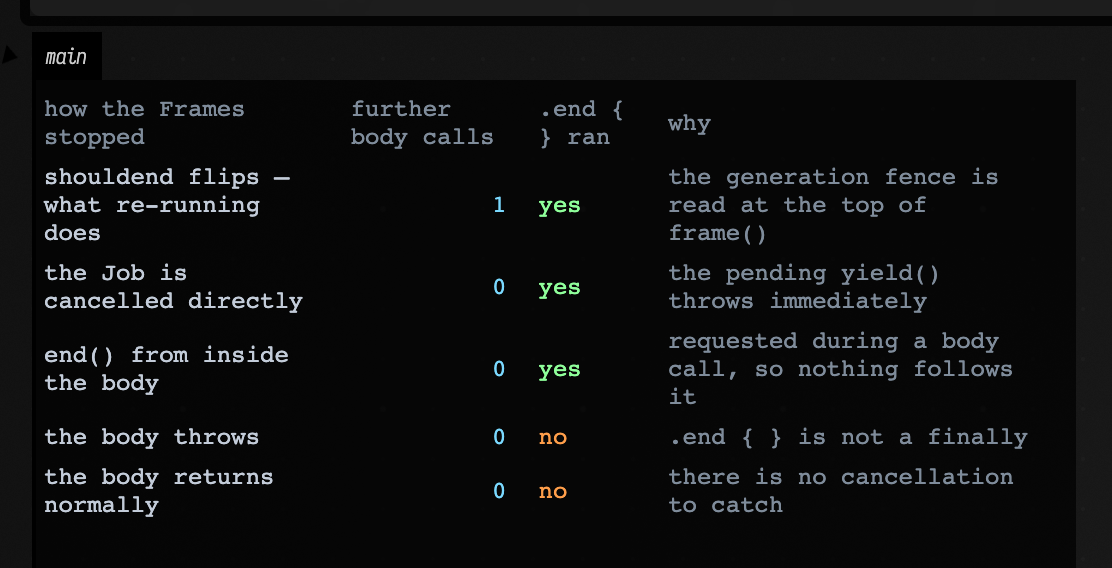
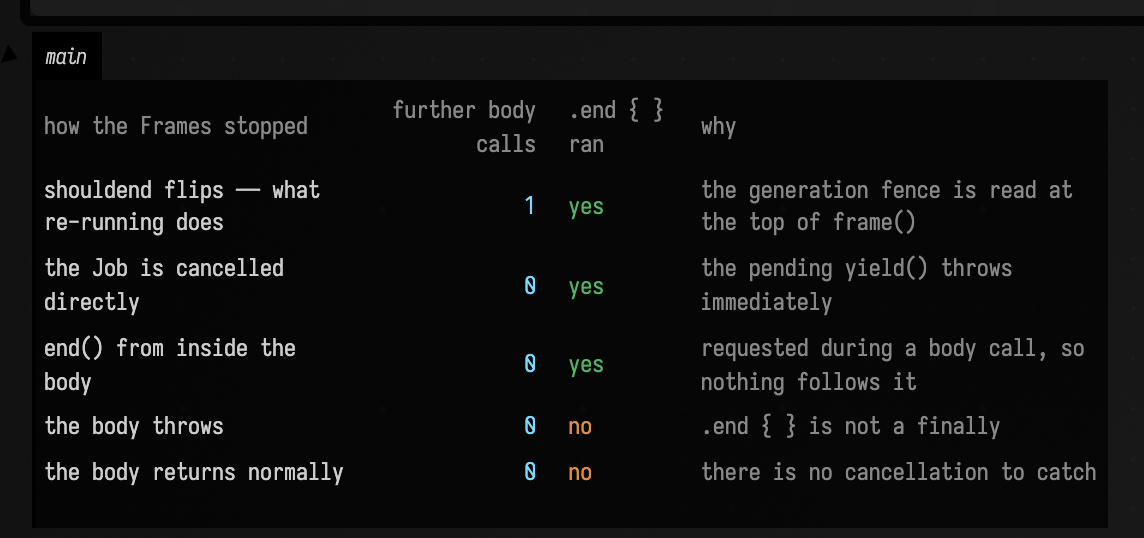
feat(visualization): semantic cell roles, and the twin table this missed
The builders figure lost its hand-rolled `<td>` markup last commit; the stopping
figure 100 lines below it kept its own `cell()` helper and four hex literals. Same
page, same shape, missed the first time round.

Migrating it needed one thing `Table` could not do: colour a column *per cell* — the
`.end { } ran` column is one thing when it ran and another when it did not. Rather
than add a second way to spell a colour, `CellRole` reuses `markdown()`'s six
`{role:text}` names and their `field-md-*` classes, so a table cell and a markdown
span that both mean "good" resolve to the same `--field-*` token by construction and
neither says `#8fff9a`. `role(column, …)` sets one for a whole column, `roleBy` picks
per value, and a failed `expect` outranks both.

WARN, not BAD, for "did not run": two of those five rows are correct completion
behaviour, and danger-red read as though the figure were reporting a bug.

The fence also ends with the two claims the paragraphs below it make — one probe
costs a further body call, `.end { }` runs for three of five — as `check`s rather
than as prose a reader has to verify against the picture.

`extraBodyCalls` becomes an `Int` instead of a pre-formatted `String`, which is what
lets Table right-align it and drops the explicit align argument.

Two notes for whoever reads this next:

- `TABLE_MUTED`/`TABLE_TEXT` are still hex while `CellRole` is tokens. Moving them is
[…]

diff --git a/src/jvmMain/kotlin/afield/visualization/tables.kt b/src/jvmMain/kotlin/afield/visualization/tables.kt
@@ -40,14 +40,32 @@ enum class Align { LEFT, RIGHT, CENTER }
 /** One cell that failed a [Table.expect] check: its row index, column name, value, and the reason given. */
 data class Deviation(val row: Int, val column: String, val value: Any?, val because: String?)
 
-/** Muted grey for headers, notes and elisions — the same `#888` the rest of value display uses. */
+/**
+ * Muted grey for headers, notes and elisions — the same `#888` the rest of value display uses.
+ *
+ * Still a hex literal, unlike [CellRole]. Moving these two defaults onto the `--field-*` tokens is
+ * the right end state and a small change, but it shifts the colour of every table already captured
+ * in the docs, so it wants its own pass rather than riding along with a figure.
+ */
 const val TABLE_MUTED: String = "#888"
 
-/** Default body text colour, matching `ValueVisualizer`'s wrapper. */
+/** Default body text colour, matching `ValueVisualizer`'s wrapper. See [TABLE_MUTED] on the hex. */
 const val TABLE_TEXT: String = "#ccc"
 
-/** Colour for cells that failed a [Table.expect] check (the last entry of [signalPalette]). */
-const val TABLE_WARN: String = "#ff7a9e"
+/**
+ * The semantic colour roles, shared with `markdown()`'s `{role:text}` spans — same six names, same
+ * `field-md-*` classes, so the same `--field-*` design token backs both. A cell that means "good"
+ * and a markdown span that means "good" are therefore the same colour by construction, and neither
+ * spells a hex literal.
+ */
+enum class CellRole(internal val cssClass: String) {
+    ACCENT("field-md-accent"),
+    MUTED("field-md-muted"),
+    DIM("field-md-dim"),
+    OK("field-md-ok"),
+    WARN("field-md-warn"),
+    BAD("field-md-bad"),
+}
 
 /**
  * Rows, columns, and the claims made about them.
@@ -89,6 +107,8 @@ class Table(
 
     private val aligns = mutableMapOf<String, Align>()
     private val colors = mutableMapOf<String, String>()
+    private val roles = mutableMapOf<String, CellRole>()
+    private val roleFns = mutableMapOf<String, (Any?) -> CellRole?>()
     private val formats = mutableMapOf<String, (Any?) -> String>()
     private val checks = mutableListOf<Triple<String?, String?, (Int, String, Any?) -> Boolean>>()
 
@@ -131,6 +151,17 @@ class Table(
         columns.forEachIndexed { i, c -> color(c, signalPalette[i % signalPalette.size]) }
     }
 
+    /** Gives a column's cells a semantic [CellRole] instead of a colour. */
+    fun role(column: String, role: CellRole): Table = apply { roles[header[columnIndex(column)]] = role }
+
+    /**
+     * Gives each cell of a column a [CellRole] chosen from its value — the per-*cell* counterpart of
+     * [color], for a column that means something different row by row (ran / did not run, converged
+     * / diverged). Return null to leave a cell alone.
+     */
+    fun roleBy(column: String, role: (Any?) -> CellRole?): Table =
+        apply { roleFns[header[columnIndex(column)]] = role }
+
     /**
      * Formats a column's cells. The returned string is **trusted HTML** and is not escaped, which is
      * how a cell gets a link, a unit, or a nested fragment; escape it yourself if it came from
@@ -140,7 +171,7 @@ class Table(
         apply { formats[header[columnIndex(column)]] = format }
 
     /**
-     * States a claim about one column: cells for which [ok] is false render in [TABLE_WARN], gain a
+     * States a claim about one column: cells for which [ok] is false take [CellRole.BAD], gain a
      * tooltip, are counted in the footnote, and appear in [deviations].
      */
     fun expect(column: String, because: String? = null, ok: (Any?) -> Boolean): Table {
@@ -180,6 +211,16 @@ class Table(
             }
         }
         return null
+    }
+
+    /**
+     * The role a cell carries: a failed [expect] outranks everything, then [roleBy], then [role].
+     * Takes [failed] rather than re-deriving it, so the checks run once per cell and not twice.
+     */
+    private fun roleOf(column: String, value: Any?, failed: Boolean): CellRole? {
+        if (failed) return CellRole.BAD
+        roleFns[column]?.invoke(value)?.let { return it }
+        return roles[column]
     }
 
     private fun alignOf(column: String): Align = aligns[column] ?: run {
@@ -248,9 +289,11 @@ class Table(
             append("<tr>")
             header.forEachIndexed { c, name ->
                 val why = failure(r, name, row[c])
-                val color = if (why != null) TABLE_WARN else colors[name]
-                append("<td style='padding:${padding(c)};text-align:${alignOf(name).css}")
-                color?.let { append(";color:$it") }
+                val role = roleOf(name, row[c], failed = why != null)
+                append("<td")
+                role?.let { append(" class='${it.cssClass}'") }
+                append(" style='padding:${padding(c)};text-align:${alignOf(name).css}")
+                if (role == null) colors[name]?.let { append(";color:$it") }
                 append("'")
                 why?.let { append(" title='${escapeTableHtml(it)}'") }
                 append(">")

diff --git a/src/jvmTest/kotlin/afield/visualization/TableTest.kt b/src/jvmTest/kotlin/afield/visualization/TableTest.kt
@@ -69,7 +69,7 @@ class TableTest {
         assertEquals(Deviation(1, "frameNumber", 3, "one frame per pump"), t.deviations.single())
 
         val html = t.toHTML()
-        assertTrue(TABLE_WARN in html, "the failing cell should carry the warn colour")
+        assertTrue(CellRole.BAD.cssClass in html, "the failing cell should carry the bad role")
         assertTrue("one frame per pump" in html, "the reason should reach the tooltip")
         assertTrue(
             "1 cell outside expectation" in html,
@@ -84,8 +84,28 @@ class TableTest {
         val html = t.toHTML()
         assertTrue(t.deviations.isEmpty(), "no deviations expected")
         assertFalse("outside expectation" in html, "a satisfied claim adds nothing to the footnote")
-        assertFalse(TABLE_WARN in html, "nothing should be coloured as a failure")
+        assertFalse(CellRole.BAD.cssClass in html, "nothing should be marked as a failure")
         assertTrue("every builder advanced one frame per pump" in html, "the note survives verbatim")
+    }
+
+    @Test
+    fun `a role becomes a shared css class, not a hex literal, and expect outranks it`() {
+        val t = Table(listOf("ran", "n"))
+            .row(true, 1)
+            .row(false, 2)
+            .roleBy("ran") { if (it == true) CellRole.OK else CellRole.BAD }
+            .role("n", CellRole.MUTED)
+            .format("ran") { if (it == true) "yes" else "no" }
+        val html = t.toHTML()
+        assertTrue("field-md-ok" in html && "field-md-bad" in html, "both roles should render:\n$html")
+        assertTrue("field-md-muted" in html, "a whole-column role should render")
+        assertFalse("#" in html.substringAfter("<tbody>").substringBefore("</tbody>"), "no hex in the cells")
+
+        // A failed expect outranks a roleBy that says OK.
+        val claimed = Table(listOf("ran")).row(true)
+            .roleBy("ran") { CellRole.OK }
+            .expect("ran") { false }
+        assertTrue(CellRole.BAD.cssClass in claimed.toHTML(), "expect must win over roleBy")
     }
 
     @Test
@@ -96,6 +116,8 @@ class TableTest {
             { it.color("clals", "#fff") },
             { it.format("clals") { "x" } },
             { it.expect("clals") { true } },
+            { it.role("clals", CellRole.OK) },
+            { it.roleBy("clals") { CellRole.OK } },
         )) {
             val e = assertFailsWith<IllegalArgumentException> { op(t) }
             assertTrue(

diff --git a/public/docs/reference/visualization.md b/public/docs/reference/visualization.md
@@ -4,7 +4,7 @@
 
 Turning a value into something you can look at, without leaving the box.
 
-9 source file(s), 314 public symbol(s), 285 of them carrying KDoc. Everything below is the documentation that lives beside the code — the same text the [completion documentation panel](../completion_doc_browser.md) shows in the editor. A blank summary means the declaration has no KDoc yet, not that this page dropped it.
+9 source file(s), 316 public symbol(s), 287 of them carrying KDoc. Everything below is the documentation that lives beside the code — the same text the [completion documentation panel](../completion_doc_browser.md) shows in the editor. A blank summary means the declaration has no KDoc yet, not that this page dropped it.
 
 <div class="codebase-reference" markdown>
 
@@ -995,8 +995,7 @@ a string returned from a `Table.format` lambda is trusted HTML and inserted as-i
 | Declaration | Summary |
 | --- | --- |
 | <code class="highlight"><span class="k">const</span> <span class="k">val</span> <span class="nc">TABLE&#95;MUTED</span><span class="p">:</span> <span class="nc">String</span></code> | Muted grey for headers, notes and elisions — the same `#888` the rest of value display uses. |
-| <code class="highlight"><span class="k">const</span> <span class="k">val</span> <span class="nc">TABLE&#95;TEXT</span><span class="p">:</span> <span class="nc">String</span></code> | Default body text colour, matching `ValueVisualizer`'s wrapper. |
-| <code class="highlight"><span class="k">const</span> <span class="k">val</span> <span class="nc">TABLE&#95;WARN</span><span class="p">:</span> <span class="nc">String</span></code> | Colour for cells that failed a `Table.expect` check (the last entry of `signalPalette`). |
+| <code class="highlight"><span class="k">const</span> <span class="k">val</span> <span class="nc">TABLE&#95;TEXT</span><span class="p">:</span> <span class="nc">String</span></code> | Default body text colour, matching `ValueVisualizer`'s wrapper. See `TABLE_MUTED` on the hex. |
 
 ### Align { #tables-kt-align }
 
@@ -1011,6 +1010,14 @@ Constants: `LEFT`, `RIGHT`, `CENTER`.
 <code class="highlight"><span class="k">data</span> <span class="k">class</span> <span class="nf">Deviation</span><span class="p">(</span><span class="k">val</span> <span class="n">row</span><span class="p">:</span> <span class="nc">Int</span><span class="p">,</span> <span class="k">val</span> <span class="n">column</span><span class="p">:</span> <span class="nc">String</span><span class="p">,</span> <span class="k">val</span> <span class="k">value</span><span class="p">:</span> <span class="nc">Any</span><span class="o">?</span><span class="p">,</span> <span class="k">val</span> <span class="n">because</span><span class="p">:</span> <span class="nc">String</span><span class="o">?</span><span class="p">)</span></code>
 
 One cell that failed a `Table.expect` check: its row index, column name, value, and the reason given.
+
+### CellRole { #tables-kt-cellrole }
+
+<code class="highlight"><span class="k">enum</span> <span class="k">class</span> <span class="nf">CellRole</span><span class="p">(</span><span class="k">internal</span> <span class="k">val</span> <span class="n">cssClass</span><span class="p">:</span> <span class="nc">String</span><span class="p">)</span></code>
+
+The semantic colour roles, shared with `markdown()`'s `{role:text}` spans — same six names, same `field-md-*` classes, so the same `--field-*` design token backs both. A cell that means "good" and a markdown span that means "good" are therefore the same colour by construction, and neither spells a hex literal.
+
+Constants: `ACCENT`, `MUTED`, `DIM`, `OK`, `WARN`, `BAD`.
 
 ### Table { #tables-kt-table }
 
@@ -1031,8 +1038,10 @@ Rows, columns, and the claims made about them.
 | <code class="highlight"><span class="k">fun</span> <span class="nf">align</span><span class="p">(</span><span class="n">column</span><span class="p">:</span> <span class="nc">String</span><span class="p">,</span> <span class="n">align</span><span class="p">:</span> <span class="nc">Align</span><span class="p">)</span><span class="p">:</span> <span class="nc">Table</span></code> | Overrides the inferred alignment of a column. |
 | <code class="highlight"><span class="k">fun</span> <span class="nf">color</span><span class="p">(</span><span class="n">column</span><span class="p">:</span> <span class="nc">String</span><span class="p">,</span> <span class="n">color</span><span class="p">:</span> <span class="nc">String</span><span class="p">)</span><span class="p">:</span> <span class="nc">Table</span></code> | Colours a column's cells. |
 | <code class="highlight"><span class="k">fun</span> <span class="nf">accent</span><span class="p">(</span><span class="k">vararg</span> <span class="n">columns</span><span class="p">:</span> <span class="nc">String</span><span class="p">)</span><span class="p">:</span> <span class="nc">Table</span></code> | Colours these columns from `signalPalette`, in order — so a table and a plot of the same quantities agree on which colour means which series. |
+| <code class="highlight"><span class="k">fun</span> <span class="nf">role</span><span class="p">(</span><span class="n">column</span><span class="p">:</span> <span class="nc">String</span><span class="p">,</span> <span class="n">role</span><span class="p">:</span> <span class="nc">CellRole</span><span class="p">)</span><span class="p">:</span> <span class="nc">Table</span></code> | Gives a column's cells a semantic [`CellRole`](visualization.md#tables-kt-cellrole) instead of a colour. |
+| <code class="highlight"><span class="k">fun</span> <span class="nf">roleBy</span><span class="p">(</span><span class="n">column</span><span class="p">:</span> <span class="nc">String</span><span class="p">,</span> <span class="n">role</span><span class="p">:</span> <span class="p">(</span><span class="nc">Any</span><span class="o">?</span><span class="p">)</span> <span class="o">-&gt;</span> <span class="nc">CellRole</span><span class="o">?</span><span class="p">)</span><span class="p">:</span> <span class="nc">Table</span></code> | Gives each cell of a column a [`CellRole`](visualization.md#tables-kt-cellrole) chosen from its value — the per-*cell* counterpart of `color`, for a column that means something different row by row (ran / did not run, converged / diverged). Return null to leave a cell alone. |
 | <code class="highlight"><span class="k">fun</span> <span class="nf">format</span><span class="p">(</span><span class="n">column</span><span class="p">:</span> <span class="nc">String</span><span class="p">,</span> <span class="n">format</span><span class="p">:</span> <span class="p">(</span><span class="nc">Any</span><span class="o">?</span><span class="p">)</span> <span class="o">-&gt;</span> <span class="nc">String</span><span class="p">)</span><span class="p">:</span> <span class="nc">Table</span></code> | Formats a column's cells. The returned string is **trusted HTML** and is not escaped, which is how a cell gets a link, a unit, or a nested fragment; escape it yourself if it came from outside. |
-| <code class="highlight"><span class="k">fun</span> <span class="k">expect</span><span class="p">(</span><span class="n">column</span><span class="p">:</span> <span class="nc">String</span><span class="p">,</span> <span class="n">because</span><span class="p">:</span> <span class="nc">String</span><span class="o">?</span> <span class="o">=</span> <span class="kc">null</span><span class="p">,</span> <span class="n">ok</span><span class="p">:</span> <span class="p">(</span><span class="nc">Any</span><span class="o">?</span><span class="p">)</span> <span class="o">-&gt;</span> <span class="nc">Boolean</span><span class="p">)</span><span class="p">:</span> <span class="nc">Table</span></code> | States a claim about one column: cells for which `ok` is false render in `TABLE_WARN`, gain a tooltip, are counted in the footnote, and appear in `deviations`. |
+| <code class="highlight"><span class="k">fun</span> <span class="k">expect</span><span class="p">(</span><span class="n">column</span><span class="p">:</span> <span class="nc">String</span><span class="p">,</span> <span class="n">because</span><span class="p">:</span> <span class="nc">String</span><span class="o">?</span> <span class="o">=</span> <span class="kc">null</span><span class="p">,</span> <span class="n">ok</span><span class="p">:</span> <span class="p">(</span><span class="nc">Any</span><span class="o">?</span><span class="p">)</span> <span class="o">-&gt;</span> <span class="nc">Boolean</span><span class="p">)</span><span class="p">:</span> <span class="nc">Table</span></code> | States a claim about one column: cells for which `ok` is false take `CellRole.BAD`, gain a tooltip, are counted in the footnote, and appear in `deviations`. |
 | <code class="highlight"><span class="k">fun</span> <span class="k">expect</span><span class="p">(</span><span class="n">because</span><span class="p">:</span> <span class="nc">String</span><span class="o">?</span> <span class="o">=</span> <span class="kc">null</span><span class="p">,</span> <span class="n">ok</span><span class="p">:</span> <span class="p">(</span><span class="n">row</span><span class="p">:</span> <span class="nc">Int</span><span class="p">,</span> <span class="n">column</span><span class="p">:</span> <span class="nc">String</span><span class="p">,</span> <span class="k">value</span><span class="p">:</span> <span class="nc">Any</span><span class="o">?</span><span class="p">)</span> <span class="o">-&gt;</span> <span class="nc">Boolean</span><span class="p">)</span><span class="p">:</span> <span class="nc">Table</span></code> | States a claim about every cell, given its row index, column name and value. |
 | <code class="highlight"><span class="k">val</span> <span class="n">deviations</span><span class="p">:</span> <span class="nc">List</span><span class="p">&lt;</span><span class="nc">Deviation</span><span class="p">&gt;</span></code> | Every cell that failed an `expect` check — the same list the rendering colours, so a test can assert on the claim the figure makes rather than on its markup. |
 | <code class="highlight"><span class="k">fun</span> <span class="nf">toText</span><span class="p">(</span><span class="p">)</span><span class="p">:</span> <span class="nc">String</span></code> | A plain-text rendering, for a terminal, a log, or a test's failure message. |

diff --git a/public/docs/reference/index.md b/public/docs/reference/index.md
@@ -4,7 +4,7 @@
 
 Field's standard library is large and, until now, invisible: the only ways to read it were to open the source or to already know the name you wanted. This section is a browsable map of it — every public declaration in `afield.stdlib`, `afield.visualization` and `afield.four.synth`, with the KDoc that sits next to it in the source.
 
-**8807 public symbols across 182 source files**, 5294 of them (60%) carrying a KDoc summary. Pages are grouped by the `@file:CompletionCategory` label the source itself carries, which is the same grouping the editor's autocomplete uses.
+**8809 public symbols across 182 source files**, 5296 of them (60%) carrying a KDoc summary. Pages are grouped by the `@file:CompletionCategory` label the source itself carries, which is the same grouping the editor's autocomplete uses.
 
 The "documented" column is the honest one: it is a coverage report on Field's own KDoc, not a claim about this page. Where a summary is blank the declaration has none yet.
 
@@ -18,7 +18,7 @@ The "documented" column is the honest one: it is a coverage report on Field's ow
 | [Imaging](imaging.md) | 6 | 255 | 209 (81%) | Rasters and computer vision: convolution and the filter family, gradients and edges, corners, blobs and morphology, multiscale pyramids, warps and optical flow. |
 | [ALife](alife.md) | 7 | 328 | 205 (62%) | Spatial artificial life: grid cellular automata (life-like, cyclic and Wolfram's elementary rules), continuous systems (reaction-diffusion, Turing patterns, Lenia), agent populations (boids, Physarum, diffusion-limited aggregation) and structural growth (L-systems, space colonization) — plus the measurement layer every one of them makes its claims through, because "it produced pixels" is not evidence. |
 | [Function](function.md) | 12 | 422 | 306 (72%) | The function algebra — Field's first-class, evolvable, graph-rewritable notion of a function. |
-| [Visualization](visualization.md) | 9 | 314 | 285 (90%) | Turning a value into something you can look at, without leaving the box. |
+| [Visualization](visualization.md) | 9 | 316 | 287 (90%) | Turning a value into something you can look at, without leaving the box. |
 | [Synthesis](synthesis.md) | 25 | 1058 | 375 (35%) | Field's own signal graph — the part of the audio stack that makes samples rather than arranging them. |
 | [Patterns](patterns.md) | 17 | 750 | 315 (42%) | Musical time, as a value. |
 | [Audio](audio.md) | 12 | 688 | 149 (21%) | Sound that arrives from, or leaves for, somewhere other than Field's own signal graph: analysis products written by an offline tool, the network protocols that carry control data, the Dirt sample library on disk, an Ableton Live set read off the filesystem, and Sonic Pi driven as an owned child process with no window of its own. |
@@ -195,11 +195,11 @@ The "documented" column is the honest one: it is a coverage report on Field's ow
 | [stacksl.kt](graphics.md#stacksl-kt) | Graphics | 19 | 19 | Host-side entry points for StackSL: compiling the stack language to GLSL, and evaluating it on the GPU sample by sample. | [StackSL cheatsheet](../stacksl_cheatsheet.md), [StackSL examples](../stacksl_examples.md) |
 | [StandardDrawing.kt](graphics.md#standarddrawing-kt) | Graphics | 41 | 41 | The small vocabulary of `FLine` construction and styling that sketches and examples reach for first. | [FLine examples (Field graphics)](../fline_examples.md), [Typography as geometry — a string becomes contours](../typography_examples.md), [Points into structure — Voronoi, Apollonius, contours and clusters](../spatial_geometry_examples.md) |
 | [stats.kt](math.md#stats-kt) | Math | 176 | 23 | Descriptive statistics, and the SVG/HTML renderings Field uses to put them in a box output. | [Which of these signals actually depend on each other?](../statistics_examples.md) |
-| [stdlib.kt](workspace.md#stdlib-kt) | Workspace | 75 | 72 | The general-purpose helpers that every Field box already has in scope. | [How Box Code Runs](../box_code_pipeline.md), [Frames, and what a frame is](../animation_time_model.md) |
+| [stdlib.kt](workspace.md#stdlib-kt) | Workspace | 75 | 72 | The general-purpose helpers that every Field box already has in scope. | [How Box Code Runs](../box_code_pipeline.md) |
 | [Summaries.kt](polytopes.md#summaries-kt) | Polytopes | 58 | 43 | Small, plain data classes that reduce the library's big values to something worth reading. |  |
 | [Symmetry.kt](polytopes.md#symmetry-kt) | Polytopes | 32 | 17 | Symmetry as a combinatorial fact, and as something a solver can be asked for. | [Polytopes: topology first, coordinates later](../polytope_examples.md) |
 | [synth.kt](synthesis.md#synth-kt) | Synthesis | 78 | 19 |  | [Making a sound in Field: every path there is](../sound_paths.md) |
-| [tables.kt](visualization.md#tables-kt) | Visualization | 29 | 29 | Tabular output — the structure, and the one renderer for it. | [Frames, and what a frame is](../animation_time_model.md) |
+| [tables.kt](visualization.md#tables-kt) | Visualization | 31 | 31 | Tabular output — the structure, and the one renderer for it. | [Frames, and what a frame is](../animation_time_model.md) |
 | [TidalPatterns.kt](patterns.md#tidalpatterns-kt) | Patterns | 170 | 35 |  | [Patterns: writing rhythm as a function of time](../pattern_language.md), [Petri nets: rhythm, structure and control, in one graph](../petri_nets.md), [Sonic Pi](../sonic_pi.md) |
 | [timeseries.kt](math.md#timeseries-kt) | Math | 212 | 212 | Streaming, time-domain filters over `Float` signals — the sample-at-a-time counterpart to the frequency-domain code in `spectral.kt`. | [Timeseries examples](../timeseries_examples.md), [Spectral examples](../spectral_examples.md) |
 | [Topology.kt](polytopes.md#topology-kt) | Polytopes | 89 | 61 | The abstract incidence complex — the authoritative value in `afield.stdlib.polytope`, and the one layer that knows nothing about coordinates. | [Polytopes: topology first, coordinates later](../polytope_examples.md) |

diff --git a/public/docs/animation_time_model.md b/public/docs/animation_time_model.md
@@ -200,7 +200,7 @@ Two of those differ in a way you can measure, and the difference is one body cal
 import kotlinx.coroutines.CoroutineScope
 import kotlinx.coroutines.launch
 
-class Result(val how: String, val extraBodyCalls: String, val endBlockRan: Boolean, val note: String)
+class Result(val how: String, val extraBodyCalls: Int, val endBlockRan: Boolean, val note: String)
 
 // Each probe runs a frame body for three pumps, requests a stop, then pumps six more times and
 // reports what the body did afterwards. These are the stops box code can stage for itself; the
@@ -221,7 +221,7 @@ fun probe(
     val atRequest = calls
     request(f, job)
     repeat(6) { framer.frame() }
-    return Result(how, "${calls - atRequest}", cleaned, note)
+    return Result(how, calls - atRequest, cleaned, note)
 }
 
 val results = listOf(
@@ -239,20 +239,24 @@ val results = listOf(
         { c -> frames { repeat(2) { c(); frame() } } }, { _, _ -> }),
 )
 
-fun cell(v: Any, colour: String = "#c3ccd9", align: String = "left") =
-    "<td style='padding:3px 16px 3px 0;text-align:$align;color:$colour'>$v</td>"
+// `roleBy` rather than a hex literal: OK/BAD are the same `--field-*` tokens `markdown()`'s
+// `{ok:…}` spans use, so this column agrees with every other "ran / did not run" in the docs.
+showTable(
+    Table(listOf("how the Frames stopped", "further body calls", ".end { } ran", "why"))
+        .rows(results.map { listOf(it.how, it.extraBodyCalls, it.endBlockRan, it.note) })
+        .accent("further body calls")
+        .color("why", TABLE_MUTED)
+        // WARN, not BAD: two of these rows are correct completion behaviour, not errors — the
+        // figure wants a reader to notice them, not to read them as a failure.
+        .roleBy(".end { } ran") { if (it == true) CellRole.OK else CellRole.WARN }
+        .format(".end { } ran") { if (it == true) "yes" else "no" },
+    channel = "main",
+)
 
-display("main", """
-<table style='color:#c3ccd9;font:12px monospace;border-collapse:collapse'>
-  <tr>${listOf("how the Frames stopped", "further body calls", ".end { } ran", "why")
-      .joinToString("") { cell(it, "#7f8c9b") }}</tr>
-  ${results.joinToString("") { r ->
-      "<tr>" + cell(r.how) + cell(r.extraBodyCalls, "#7ad9ff", "right") +
-      cell(if (r.endBlockRan) "yes" else "no", if (r.endBlockRan) "#8fff9a" else "#ff9e4a") +
-      cell(r.note, "#7f8c9b") + "</tr>"
-  }}
-</table>
-""")
+// The two claims the paragraphs below make, as assertions rather than as prose a reader has to
+// check against the figure by eye.
+check(results.count { it.extraBodyCalls > 0 } == 1) { "only shouldend should cost a further body call" }
+check(results.count { it.endBlockRan } == 3) { ".end { } should run for the three cancellation cases" }
 ```
 
 ![A table of five ways a Frames stops, showing that flipping shouldend costs one further body call while cancelling the Job costs none, and that the .end block runs for the three cancellation cases and not for the two completion cases](assets/animation_time_model/stopping.png)

diff --git a/dev_docs/kdoc_worklist.md b/dev_docs/kdoc_worklist.md
@@ -2,7 +2,7 @@
 <!-- Regenerate: ./gradlew generateCodebaseReference -->
 # KDoc worklist
 
-The other half of the coverage column on [the codebase reference](../public/docs/reference/index.md): 5294 of 8807 public symbols in `afield.stdlib`, `afield.visualization` and `afield.four.synth` carry a KDoc summary, and this is what is missing, most valuable first.
+The other half of the coverage column on [the codebase reference](../public/docs/reference/index.md): 5296 of 8809 public symbols in `afield.stdlib`, `afield.visualization` and `afield.four.synth` carry a KDoc summary, and this is what is missing, most valuable first.
 
 **466 undocumented entry points** (types, top-level functions and values) and 2802 undocumented members. Overload families count once — documenting `pulseTrain` closes one gap, not six — and the members Kotlin generates for a `data class` are not counted at all.
 
@@ -72,7 +72,7 @@ Ranking is by payoff, from signals the generator already has: files that a worke
 | [Conway.kt](../src/jvmMain/kotlin/afield/stdlib/polytope/Conway.kt) | Polytopes | polytope_examples | 0 | 5 | 64% |
 | [FaustBox.kt](../src/jvmMain/kotlin/afield/four/synth/FaustBox.kt) | Synthesis | faust | 0 | 4 | 73% |
 | [DoughDspSoundDocs.kt](../src/jvmMain/kotlin/afield/four/synth/DoughDspSoundDocs.kt) | Synthesis | dough_dsp_sound | 0 | 3 | 81% |
-| [stdlib.kt](../src/jvmMain/kotlin/afield/stdlib/stdlib.kt) | Workspace | box_code_pipeline, animation_time_model | 0 | 3 | 96% |
+| [stdlib.kt](../src/jvmMain/kotlin/afield/stdlib/stdlib.kt) | Workspace | box_code_pipeline | 0 | 3 | 96% |
 | [FunctionRewritePattern.kt](../src/jvmMain/kotlin/afield/stdlib/FunctionRewritePattern.kt) | Function | functions_examples | 0 | 2 | 84% |
 | [Canonical.kt](../src/jvmMain/kotlin/afield/stdlib/polytope/Canonical.kt) | Polytopes | polytope_examples | 0 | 2 | 95% |
 | [Realize.kt](../src/jvmMain/kotlin/afield/stdlib/polytope/Realize.kt) | Polytopes | polytope_examples | 0 | 1 | 93% |

diff --git a/public/docs/reference/workspace.md b/public/docs/reference/workspace.md
@@ -59,7 +59,7 @@ connect/disconnect, `__m` markers); execution control (`begin`, `end`, `start`, 
 
 `src/jvmMain/kotlin/afield/stdlib/stdlib.kt`
 
-**Used in:** [How Box Code Runs](../box_code_pipeline.md), [Frames, and what a frame is](../animation_time_model.md)
+**Used in:** [How Box Code Runs](../box_code_pipeline.md)
 
 ### Top-level functions { #stdlib-kt-functions }
 
